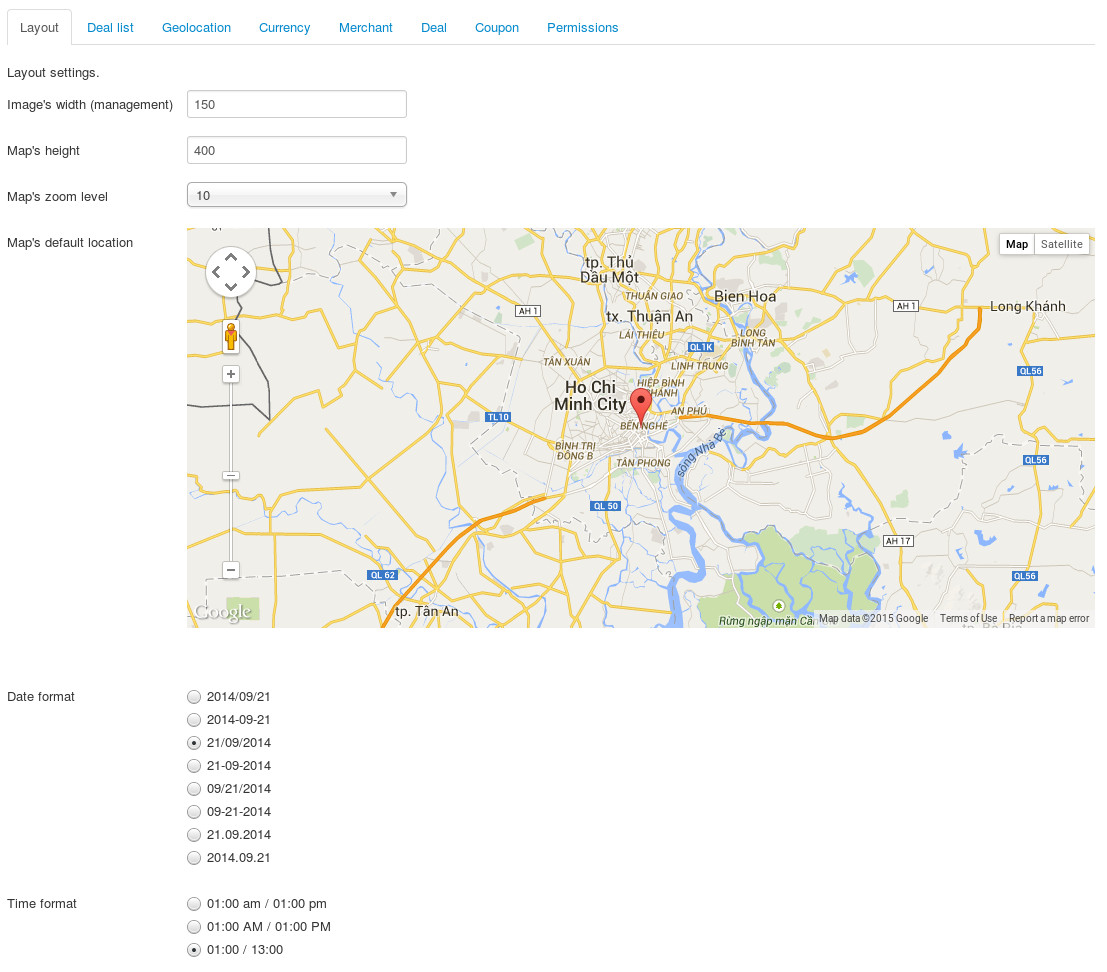
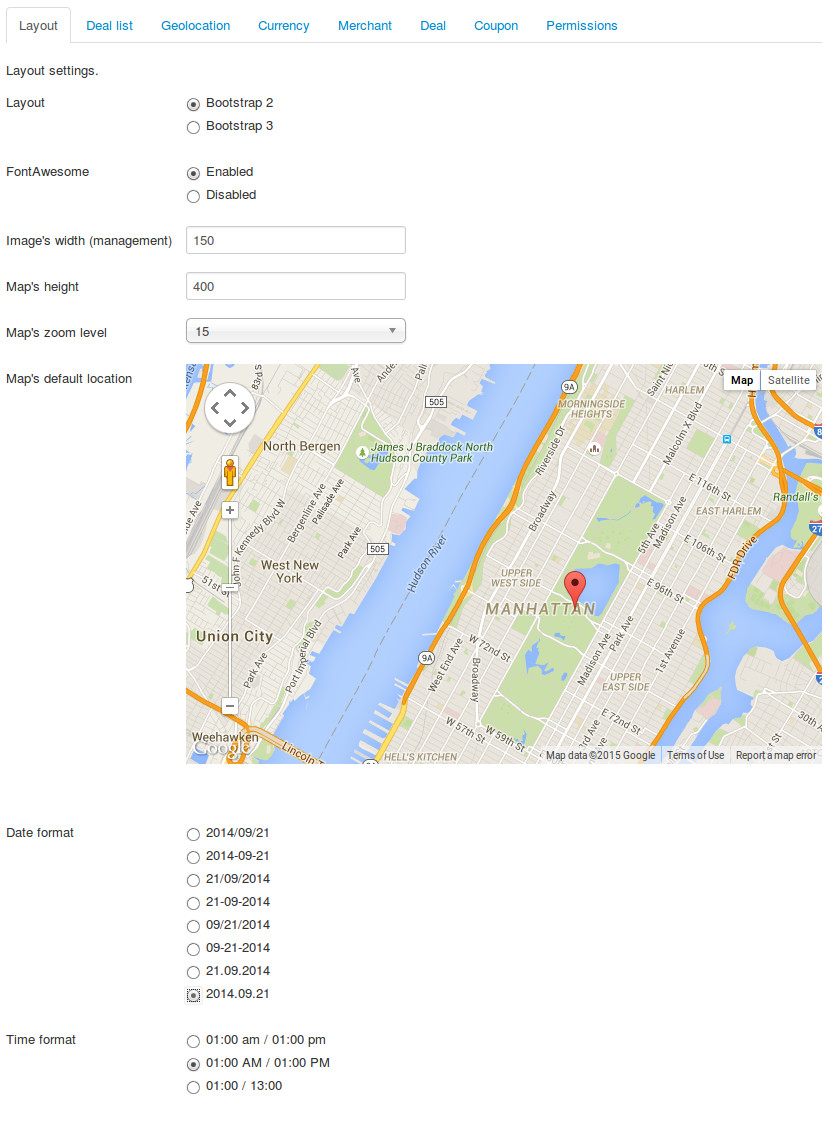
1.7.0 beta

diff --git a/conf.py b/conf.py
@@ -51,9 +51,9 @@ copyright = u'2014-2015, CMExtension'
 # built documents.
 #
 # The short X.Y version.
-version = '1.6.0'
+version = '1.7.0'
 # The full version, including alpha/beta/rc tags.
-release = '1.6.0-beta'
+release = '1.7.0-beta'
 
 # The language for content autogenerated by Sphinx. Refer to documentation
 # for a list of supported languages.

diff --git a/pages/configuration.rst b/pages/configuration.rst
@@ -76,6 +76,8 @@ Layout
 
 .. image:: ../images/com_cmlivedeal_layout.jpg
 
+* **Layout**: The Bootstrap version which CMLiveDeal uses. Select the Bootstrap version which your template supports.
+* **FontAwesome**: CMLiveDeal needs FontAwesome for icons. If your template or other extensions (like plugins) already loads FontAwesome then you should set this option to "Disabled" to not load FontAwesome from CMLiveDeal.
 * **Image's width (management)**: Image thumbnail's width (pixel) in deal list table (in back-end and in merchant's management area in front-end). Default value is 50px.
 * **Map's height**: The height of Google's maps, used in both front-end and back-end. Default value is 400px.
 * **Map's zoom level**: Default Google Maps's zoom level. Default value is 15.
@@ -88,13 +90,14 @@ Deal list
 
 .. image:: ../images/com_cmlivedeal_deal_list.jpg
 
+* **Deal list's column quantity**: The number of columns in deal list.
+* **Thumbnail width**: The width of deal image in deal list calculated by Bootsrap framework's 12 grid column. You can select one of the 3 options and refresh your front-end deal list until it looks good for you. This option is only used if you only have 1 column in your deal list.
 * **Default pagination limit**: The quantity of deals that are displayed in deal list by default.
 * **Show pagination limit option**: Show an option to select the quantity of deals that are displayed in 1 page in deal list.
 * **Show pagination sorting option**: Show an option to select how deals in deal list are sorted.
 * **Show price tag**: Show price tag at the top left corner of every deal in deal list. This price tag contains discounted price, discounted value or discount percent.
 * **Show original and discounted prices**: Show original price and discounted price of deal of it has these prices.
 * **Price tag of deals which have discounted price**: If deal has original price and discounted price, you show discounted price or discount value (how much customers save). For example, if orginal price is $100, discounted price is $40, you can show $40 (discounted price) or $60 (discount value).
-* **Thumbnail width**: The width of deal image in deal list calculated by Bootsrap framework's 12 grid column. You can select one of the 3 options and refresh your front-end deal list until it looks good for you.
 
 Geolocation
 ^^^^^^^^^^^

diff --git a/pages/overview.rst b/pages/overview.rst
@@ -12,7 +12,7 @@ Technical Requirements
 ----------------------
 
 * **Joomla! 3.x.x**: CM Live Deal is **NOT** compatible with Joomla! 1.x.x or 2.x.x, only Joomla! 3.x.x is supported. Please check `Joomla! 3's Technical Requirements <http://www.joomla.org/technical-requirements.html>`_ for more information.
-* **Bootstrap 2**: CM Live Deal is **NOT** compatible with Bootstrap 3. Bootstrap 2 is available by default in Joomla! 3.x.x. Bootstrap 2 must be loaded on your site by Joomla! or by your template.
+* **Bootstrap 2 or Bootstrap 3**: CM Live Deal is compatible with both Bootstrap 2 and Bootstrap 3.
 
 Features
 --------
